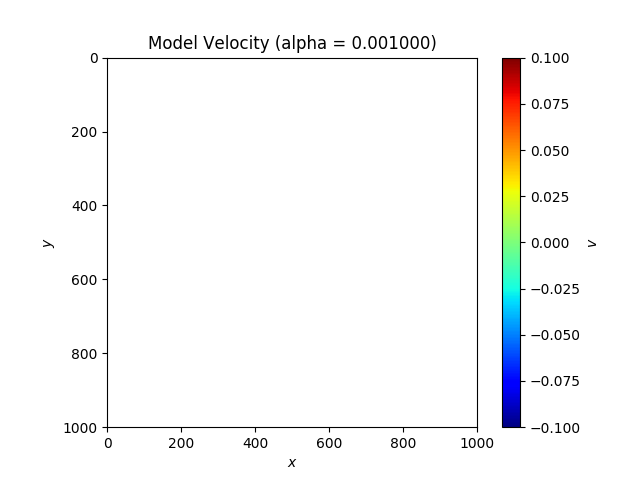
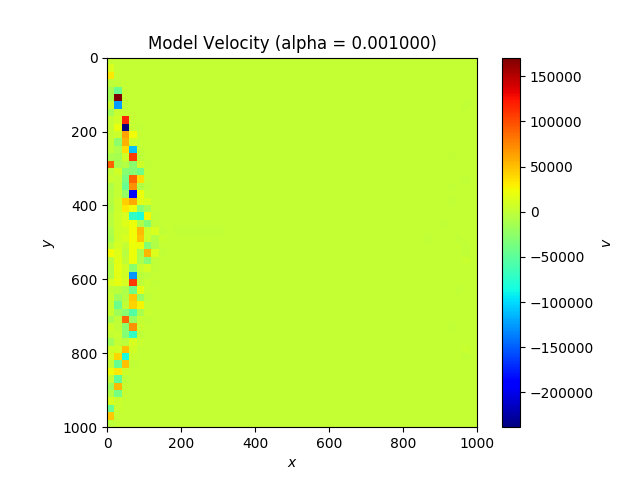
almost done hw3

diff --git a/HW03/pb1/stt.py b/HW03/pb1/stt.py
@@ -10,7 +10,7 @@ import settings, ray
 REPORT_LOG = {
     'alphas': [],
     'norm_model': [],
-    'norm_res': []
+    'norm_res': [],
 }
 
 def readraw(filename):
@@ -36,8 +36,13 @@ if __name__ == "__main__":
                 y_r_i = settings.DX/2 + r_j * dy_sr
 
                 l_i = ray.ray_length(-10,y_s_i,1010,y_r_i)
+                t_i = np.add(
+                    np.matmul(s_real.T, l_i),
+                    np.random.normal(loc=0, scale=1e-4)
+                )
+
                 l.append(l_i)
-                t.append(np.matmul(s_real.T, l_i))
+                t.append(t_i)
         t = np.array(t)
         l = np.array(l)
         s_model = np.matmul(
@@ -49,13 +54,13 @@ if __name__ == "__main__":
             ),
             np.matmul(l.T, t)
         )
-        REPORT_LOG['alphas'] = alpha
-        REPORT_LOG['norm_model'] = np.linalg.norm(s_model)
-        REPORT_LOG['norm_res'] = np.linalg.norm(
+        REPORT_LOG['alphas'].append(alpha)
+        REPORT_LOG['norm_model'].append(np.sqrt(np.sum(np.square(s_model))))
+        REPORT_LOG['norm_res'].append(np.linalg.norm(
             np.subtract(
                 t,
-                np.multiply(s_model.T, l)
-        ))
+                np.matmul(s_model.T, l)
+        )))
         # visualize model
         map_model = s_model.reshape(settings.NX, settings.NY).T
         plt.imshow(map_model, cmap='jet', extent=[0, settings.DX*settings.NX, settings.DX*settings.NY, 0])
@@ -68,10 +73,16 @@ if __name__ == "__main__":
         plt.clf()
         # plt.show()
 
-    # visual l-curve
-    plt.plot(REPORT_LOG['norm_res'], REPORT_LOG['norm_model'], 'o-')
-    plt.savefig('L_curve.png')
-    plt.clf()
+    # log l-curve
+    f_curve = open("l_curve.log", 'w')
+    f_curve.write("alpha,norm_res,norm_model\n")
+    for i in range(len(REPORT_LOG['norm_res'])):
+        f_curve.write("{},{},{}\n".format(
+            settings.ALPHAS[i],
+            REPORT_LOG['norm_res'][i],
+            REPORT_LOG['norm_model'][i])
+        )
+    f_curve.close()
 
     # visualize raw
     raw_map = readmap(filename=settings.FILENAME)
@@ -82,7 +93,7 @@ if __name__ == "__main__":
     plt.xlabel("$x$")
     plt.ylabel("$y$")
     plt.savefig("real_v.png")
-    plt.show()
+    # plt.show()
 
     '''
     # Test ray tracing

diff --git a/HW03/pb1/sd.py b/HW03/pb1/sd.py
@@ -1,0 +1,68 @@
+import numpy as np
+import platform
+if platform.system() == "Darwin":
+    import matplotlib
+    matplotlib.use('TkAgg')
+import matplotlib.pyplot as plt
+
+import settings, ray
+
+ALPHA = 0.1
+
+REPORT_LOG = {
+    'alphas': [],
+    'norm_model': [],
+    'norm_res': [],
+
+}
+
+def readraw(filename):
+    f = open(settings.FILENAME, "r")
+    return np.fromfile(f, dtype=np.float32)
+
+def readmap(filename):
+    a = readraw(filename)
+    a = a.reshape(settings.NX, settings.NY)
+    return a.T
+
+if __name__ == "__main__":
+    s_real = readraw(filename=settings.FILENAME)
+
+    dy_sr = (settings.NY * settings.DX)/settings.N_SOURCE
+    t = []
+    l = []
+    for s_i in range(settings.N_SOURCE):
+        for r_j in range(settings.N_RECEIVER):
+            y_s_i = settings.DX/2 + s_i * dy_sr
+            y_r_i = settings.DX/2 + r_j * dy_sr
+
+            l_i = ray.ray_length(-10,y_s_i,1010,y_r_i)
+            t_i = np.add(
+                np.matmul(s_real.T, l_i),
+                np.random.normal(loc=0, scale=1e-4)
+            )
+
+            l.append(l_i)
+            t.append(t_i)
+    t = np.array(t)
+    l = np.array(l)
+    
+    s_model = np.matmul(
+        np.linalg.inv(
+            np.add(
+                np.matmul(l.T, l),
+                np.multiply(alpha, np.identity(settings.NX*settings.NY, dtype=float))
+            )
+        ),
+        np.matmul(l.T, t)
+    )
+    # visualize model
+    map_model = s_model.reshape(settings.NX, settings.NY).T
+    plt.imshow(map_model, cmap='jet', extent=[0, settings.DX*settings.NX, settings.DX*settings.NY, 0])
+    a = plt.colorbar()
+    a.set_label('$v$')
+    plt.title("Model Velocity (alpha = {:6.6f})".format(alpha))
+    plt.xlabel("$x$")
+    plt.ylabel("$y$")
+    # plt.savefig("img/model_v_alpha{}.png".format(alpha))
+    plt.show()

diff --git a/HW03/pb1/analyze_L_curve.py b/HW03/pb1/analyze_L_curve.py
@@ -1,0 +1,16 @@
+import pandas as pd
+import numpy as np
+import platform
+if platform.system() == "Darwin":
+    import matplotlib
+    matplotlib.use('TkAgg')
+import matplotlib.pyplot as plt
+
+f = pd.read_csv("l_curve.log")
+
+print(f['norm_res'], f['norm_model'])
+
+plt.plot(f['norm_res'], f['norm_model'], 'o-')
+plt.xscale('log')
+plt.yscale('log')
+plt.show()

diff --git a/HW03/pb1/settings.py b/HW03/pb1/settings.py
@@ -8,4 +8,4 @@ N_SOURCE = 50
 N_RECEIVER = 50
 
 # ALPHAS = [1e-3, ]
-ALPHAS = np.logspace(-4, 4, num=20, base=10)
+ALPHAS = np.logspace(-3, 3, num=5, base=10)
